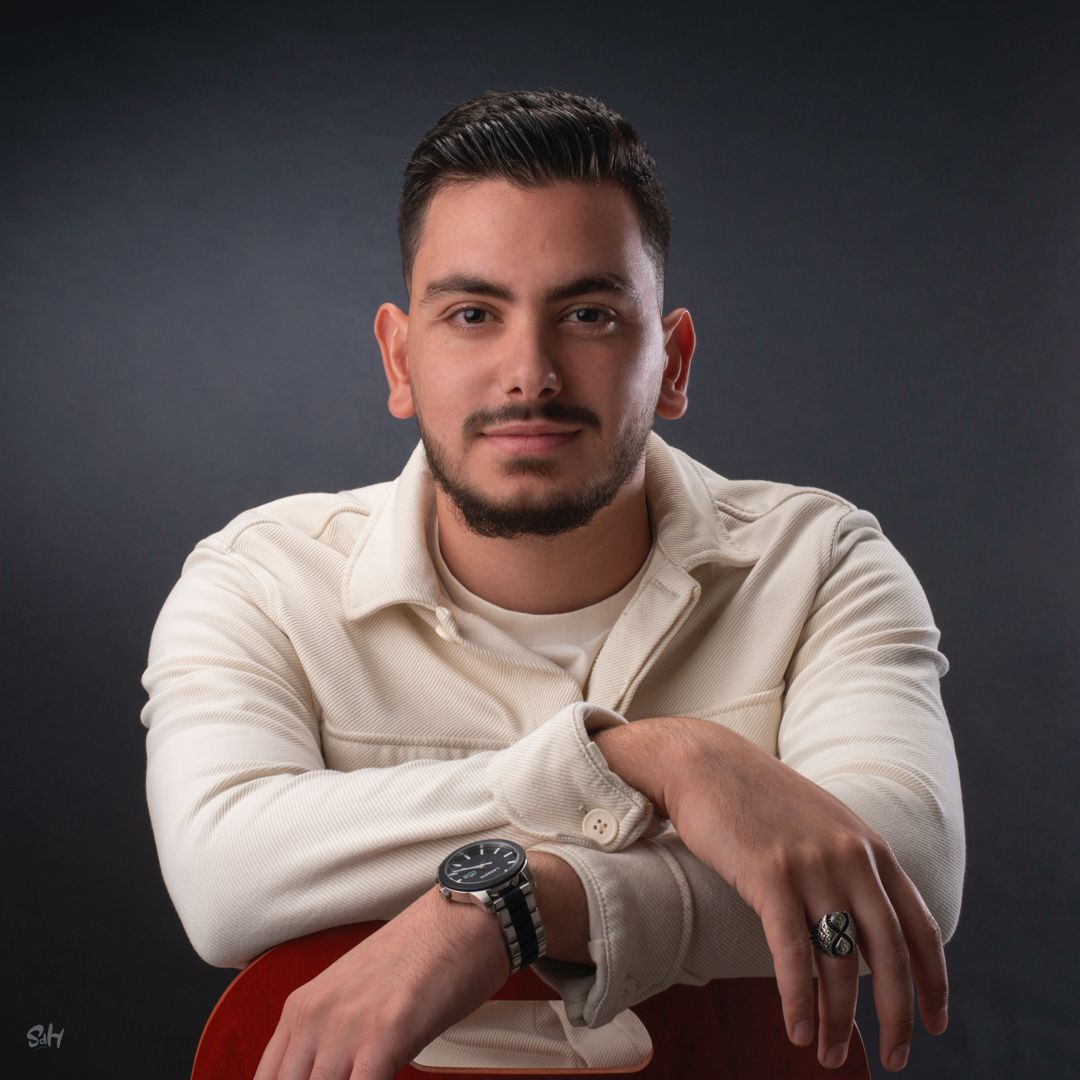
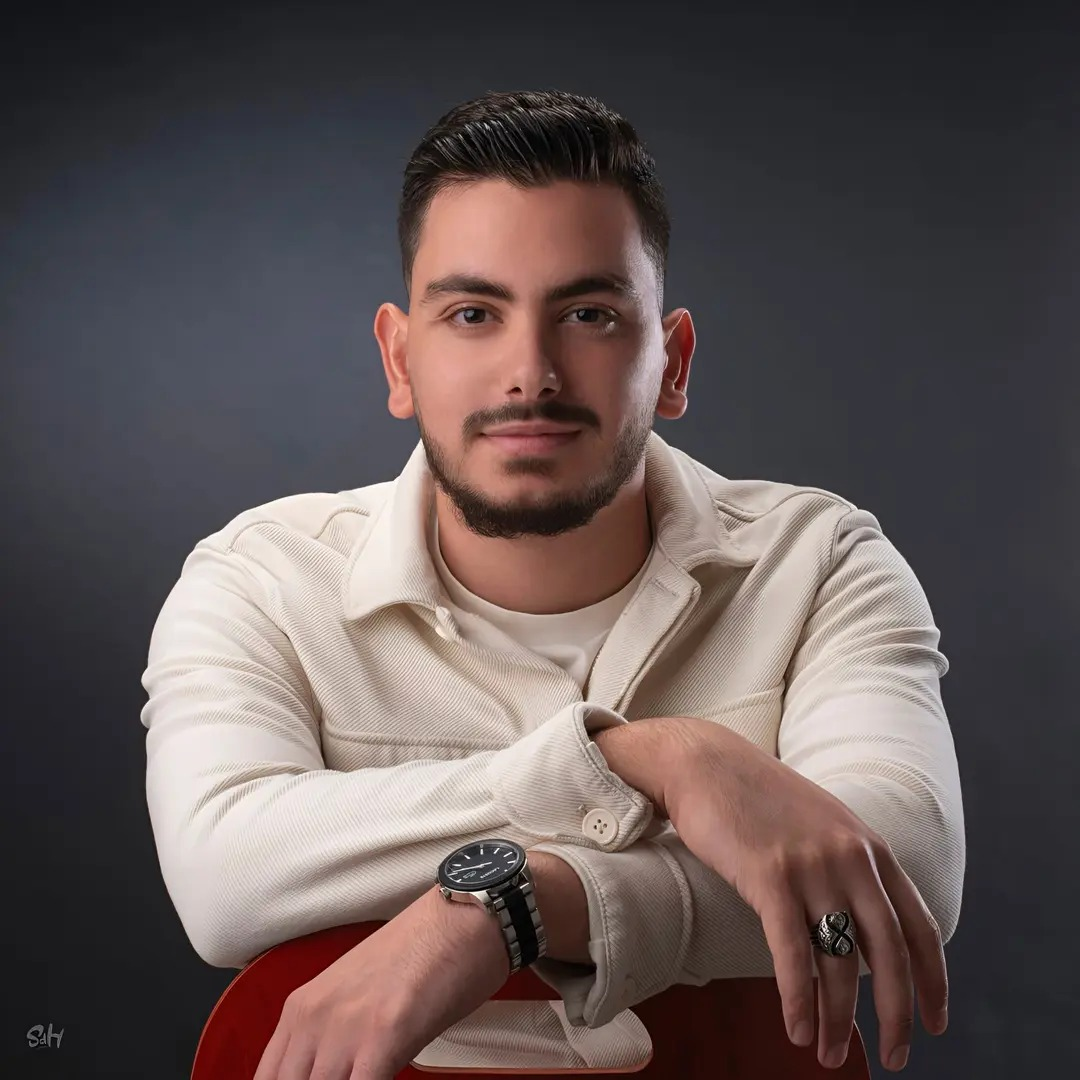
Portrait: new high-resolution photo (1080 px, srcset)

Changed region(s): [[0.3972, 0.7944, 0.4583, 0.825], [0.825, 0.55, 0.8556, 0.5806], [0.3361, 0.5806, 0.3667, 0.6111]]

diff --git a/fr/index.html b/fr/index.html
@@ -91,7 +91,7 @@
             <aside class="about-side" id="contact">
                 <figure class="hero-portrait">
                     <div class="avatar-swap" title="Touchez ou survolez l’image pour voir l’illustration d’Arita. Touchez à nouveau pour revenir.">
-                        <img src="../photo-440.webp" alt="Ammar Kheder" class="avatar avatar-front" width="440" height="440" decoding="async">
+                        <img src="../photo-440.webp" srcset="../photo-440.webp 440w, ../photo-1080.webp 1080w" sizes="(max-width: 640px) 60vw, 240px" alt="Ammar Kheder" class="avatar avatar-front" width="440" height="440" decoding="async">
                         <img src="../pic/ammar_arita-440.webp" alt="Ammar Kheder, portrait illustré par Mitsuhiro Arita" class="avatar avatar-back" loading="lazy" width="440" height="440" decoding="async">
                     </div>
                     <figcaption>Touchez&nbsp;: mon portrait, illustré par Mitsuhiro Arita</figcaption>

diff --git a/index.html b/index.html
@@ -91,7 +91,7 @@
             <aside class="about-side" id="contact">
                 <figure class="hero-portrait">
                     <div class="avatar-swap" title="Tap or hover to reveal the Arita illustration. Tap again to flip back.">
-                        <img src="photo-440.webp" alt="Ammar Kheder" class="avatar avatar-front" width="440" height="440" decoding="async">
+                        <img src="photo-440.webp" srcset="photo-440.webp 440w, photo-1080.webp 1080w" sizes="(max-width: 640px) 60vw, 240px" alt="Ammar Kheder" class="avatar avatar-front" width="440" height="440" decoding="async">
                         <img src="pic/ammar_arita-440.webp" alt="Ammar Kheder, portrait illustrated by Mitsuhiro Arita" class="avatar avatar-back" loading="lazy" width="440" height="440" decoding="async">
                     </div>
                     <figcaption>Tap: my portrait, illustrated by Mitsuhiro Arita</figcaption>
